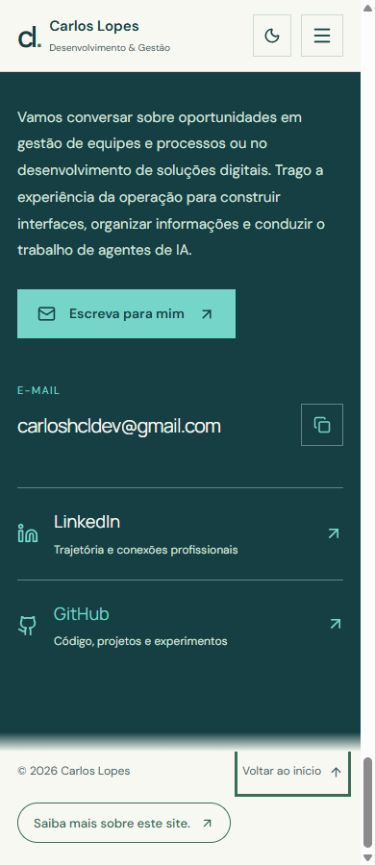
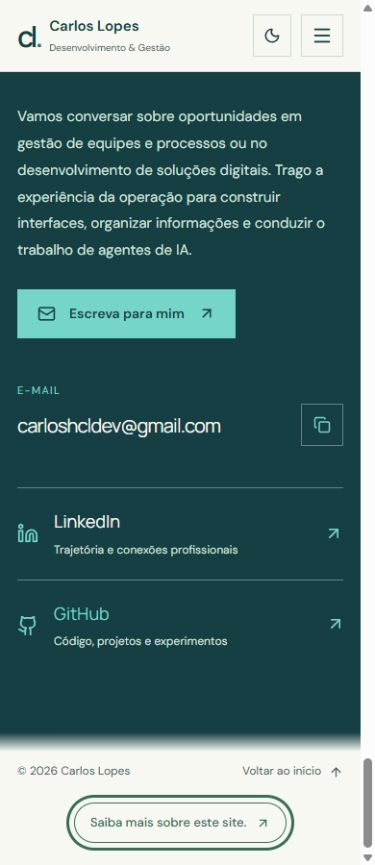
style: refina alinhamentos e orbita no mobile

diff --git a/src/index.css b/src/index.css
@@ -204,6 +204,7 @@ h2 span{color:var(--green)}
 .footer-inner a{display:flex;align-items:center;gap:8px;min-height:36px}
 /* Hero signature: the artwork and orbit belong exclusively to this section. */
 .hero{position:relative;isolation:isolate;overflow:clip}
+.hero-title-orbit{display:contents}
 .hero-signature{position:relative;isolation:isolate;display:grid;grid-template-columns:minmax(0,1fr) clamp(230px,28vw,360px);gap:24px;align-items:center;min-height:0;padding-block:12px}
 .hero-context{margin-top:48px}
 .hero .hero-signature h1{position:relative;z-index:1;min-width:0;font-size:calc(clamp(64px,9.8vw,142px) + 1px)}
@@ -237,6 +238,29 @@ h2 span{color:var(--green)}
  .contact-layout{grid-template-columns:1fr;gap:45px}.contact-section{padding-block:64px}.contact-section h2{font-size:65px}.contact-links{max-width:520px;width:100%}.email-row>a{font-size:24px}.footer-inner{flex-wrap:wrap;gap:6px 18px}
 }
 @media(max-width:390px){.shell{width:calc(100% - 36px)}.brand{gap:9px;font-size:15px}.brand-caption{font-size:10px}.brand-mark{font-size:30px}.nav-inner{gap:10px}.theme-toggle{padding-inline:10px}.theme-toggle>span{display:none}.hero h1{font-size:calc(clamp(46px,13.6vw,54px) + 1px)}.hero-topline>span{font-size:11px}.eyebrow{font-size:11px}.hero-line-strong{margin-left:7%}.feature-heading h2{font-size:59px}.case-map{padding:15px}.chapter-nav{gap:11px}.case-chapter h3{font-size:28px}.about-intro h2{font-size:33px}.contact-section h2{font-size:57px}.email-row>a{font-size:20px}}
+/* Mobile refinements: keep the desktop composition and orbit unchanged. */
+@media(max-width:799px){
+ .hero-signature{grid-template-columns:1fr;gap:24px;min-height:0;padding-block:12px 20px}
+ .hero-title-orbit{display:block;position:relative;isolation:isolate;min-width:0;padding-block:16px}
+ .hero .hero-signature h1{text-align:center}
+ .hero-signature .hero-line-strong{margin-left:0}
+ .hero-title-orbit .hero-orbit{width:min(108%,560px);top:50%}
+ .hero-emblem{width:160px;border-radius:20px;justify-self:center;margin-right:0}
+ .hero-specialty{grid-template-columns:repeat(2,max-content);column-gap:0;justify-content:space-evenly;margin-inline:auto}
+ .hero-description{text-align:justify;text-align-last:start}
+ .about-intro h2{text-align:center}
+ .about-intro .about-links{display:grid;grid-template-columns:repeat(2,minmax(0,1fr));gap:16px;align-items:center;justify-items:center}
+ .about-intro .about-links .text-link{width:100%;justify-content:center;text-align:center;gap:8px}
+ .about-intro .about-links svg{flex-shrink:0}
+ .profile-figure{margin-inline:auto;text-align:center}
+ .trajectory-section .section-heading,.writing-section .section-heading{align-items:center;text-align:center}
+ .trajectory-section .section-heading>div,.writing-section .section-heading>div{width:100%}
+ .education-note{margin-inline:auto}
+ .publication-hint{justify-content:center}
+ .publication{column-gap:15px}
+ .footer-inner{display:grid;grid-template-columns:repeat(2,minmax(0,1fr));gap:6px 18px}
+ .footer-inner>a{justify-self:end}
+}
 @media(prefers-reduced-motion:no-preference){
  .hero-line{animation:arrive 850ms var(--ease-out) both}.hero-line-strong{animation-delay:110ms}
  @keyframes arrive{from{transform:translateY(14px)}to{transform:translateY(0)}}

diff --git a/src/sections/Hero.tsx b/src/sections/Hero.tsx
@@ -19,8 +19,10 @@ export function Hero() {
     <div className="shell hero-editorial">
       <div className="hero-topline"><p className="eyebrow">Carlos Henrique Lopes</p><span className="hero-location"><MapPin size={13} aria-hidden="true" />Recife, PE · Brasil</span></div>
       <div className="hero-signature">
-        <HeroComet />
-        <h1 id="hero-heading"><span className="hero-line thin-display">Da operação</span><span className="hero-line hero-line-strong">à interface<span className="hero-period">.</span></span></h1>
+        <div className="hero-title-orbit">
+          <HeroComet />
+          <h1 id="hero-heading"><span className="hero-line thin-display">Da operação</span><span className="hero-line hero-line-strong">à interface<span className="hero-period">.</span></span></h1>
+        </div>
         <div className="hero-emblem"><img src="/hero/agent-layers.png" alt="Camadas interligadas de agentes, em azul petróleo e aqua, com conexões verdes." width="1280" height="720" fetchPriority="high" decoding="async" /></div>
       </div>
       <div className="hero-context"><ul className="hero-specialty" aria-label="Competências">{specialties.map(({ label, Icon }) => <li key={label}><Icon size={17} aria-hidden="true" /><span>{label}</span></li>)}</ul><div>

diff --git a/src/project-showcase.css b/src/project-showcase.css
@@ -109,7 +109,8 @@
  .project-carousel{gap:16px}.showcase-card{flex-basis:86%;padding:20px;border-radius:24px}
  .showcase-card-copy h3{font-size:28px}.showcase-card-copy>p:last-of-type{min-height:0}
  .showcase-card-top{font-size:10px;margin-bottom:17px}
- .showcase-footer{flex-wrap:wrap;gap:8px 20px;margin-top:12px}.carousel-progress{display:none}
+ .showcase-footer{flex-wrap:wrap;justify-content:center;gap:8px 20px;margin-top:12px}.carousel-progress{display:none}
+ .showcase-footer>.button{margin-inline:auto}
  .project-modal{width:calc(100% - 24px);height:calc(100dvh - 24px);max-height:calc(100dvh - 24px);border-radius:22px}
  .modal-header{padding:10px 20px 14px}.modal-toolbar{gap:12px}.modal-toolbar .eyebrow{font-size:10px;letter-spacing:.08em}
  .modal-heading{grid-template-columns:1fr;gap:8px;margin-block:4px 12px}.modal-heading h2{font-size:32px}.modal-heading>p{font-size:13px;max-width:none;line-height:1.5}

diff --git a/src/site-process.css b/src/site-process.css
@@ -34,7 +34,7 @@
 .process-release p{margin:12px 0}
 .process-release .text-link{font-size:13px;align-items:center;gap:8px}
 @media(max-width:799px){
- .footer-process-button{order:3;margin-top:8px}
+ .footer-process-button{order:3;margin-top:8px;grid-column:1/-1;justify-self:center}
  .site-process-modal .modal-heading h2{font-size:30px}
  .site-process-modal .modal-meta{flex-wrap:wrap}
  .site-process-modal .modal-toolbar .eyebrow{max-width:23ch}

diff --git a/DESIGN_SYSTEM.md b/DESIGN_SYSTEM.md
@@ -140,3 +140,11 @@ O modal “Sobre este site” reutiliza a estrutura visual dos projetos: cabeça
 O relato descreve Carlos como PO / Scrum Master e Codex como a frente de desenvolvimento assistido por IA. As sprints organizam as etapas realizadas, sem atribuir duração, cerimônias ou métricas não registradas. As decisões de produto e a aceitação final permanecem com Carlos. O conteúdo identifica o refinamento em andamento e a revisão em prévia antes da publicação.
 
 O `dialog` nativo bloqueia a interação e a rolagem da página ao fundo, permite fechamento pelo botão, Escape e clique externo e restaura o foco ao acionador. Verificação local realizada nos dois temas, no desktop, em 1024 × 600, 390 × 844 e 320 × 640: sem transbordamento horizontal, com leitura até o final, cabeçalho estável e retorno de foco. Build e lint passaram; o modal do JBL Desk manteve suas duas colunas e galeria.
+
+## Alinhamento mobile — 09/10/2026
+
+Até 799 px, o Hero usa título e ilustração centralizados em uma coluna. Um contêiner envolve somente o título e os dois cometas, limitando a órbita à frase, acima da imagem. As competências ficam em duas colunas com largura pelo conteúdo e três espaços horizontais iguais. A descrição do Hero usa alinhamento justificado, com a última linha alinhada ao início. No desktop, o novo contêiner usa `display: contents` e conserva a órbita e a composição anteriores.
+
+No Sobre mim, título, retrato e legenda ficam centralizados; os dois links ocupam colunas iguais com intervalo de 16 px e permitem quebra do texto em telas estreitas. O CTA “Mais no GitHub” fica centralizado. Os títulos e textos introdutórios da Trajetória e das Publicações também são centralizados, incluindo a formação e a instrução de leitura. Nas publicações, o intervalo horizontal da grade passa de 13 para 15 px, aumentando em 2 px a separação entre miniatura e texto. No rodapé, copyright e retorno ao início ocupam a primeira linha, e o botão sobre o site fica centralizado na segunda.
+
+Alinhamentos e ausência de transbordamento horizontal conferidos em 320, 360, 390, 412, 430 e 768 px. A largura de 412 px é uma referência de composição para celular, sem representar um teste de desempenho no hardware do Moto G84. Na comparação em 1280 × 720, as medidas, posições e estilos dos elementos desktop inspecionados permaneceram iguais.
